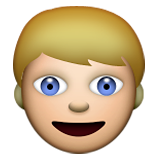
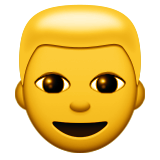
Ignite

diff --git a/2016_06_IgniteSydney/slides.md b/2016_06_IgniteSydney/slides.md
@@ -1,6 +1,6 @@
 ## &nbsp;
 
- <div style='width: 50%; margin: 0 auto;'><p align='center'><img height='400px' src='pictures/t/cry.svg'></p></div> <!-- .slide: class="center" -->
+ <div style='width: 50%; margin: 0 auto;'><p align='center'><img height='400px' src='pictures/g/crying.svg'></p></div> <!-- .slide: class="center" -->
 ---
  <div style='width: 100%; margin: 0 auto;'><p align='center'><img height='200px' src='pictures/g/T.svg'><img height='200px' src='pictures/g/L.svg'><img height='200px' src='pictures/g/D.svg'><img height='200px' src='pictures/g/R.svg'></p></div> <!-- .slide: class="center" -->
 Note: Because computers
@@ -40,8 +40,8 @@ Note: A small face-only update in 2012
 
 most platforms, if they support emoji at all, will support up to here
 ---
- <div style='width: 100%; margin: 0 auto;'><p align='center'><img height='160px' src='pictures/e/7.svg'><img height='160px' src='pictures/space.svg'><img height='160px' src='pictures/e/vulcan_1.svg'><img height='160px' src='pictures/e/sleuth.svg'><img height='160px' src='pictures/e/chipmunk.svg'></p></div> <!-- .slide: class="center" -->
- <div style='width: 100%; margin: 0 auto;'><p align='center'><img height='160px' src='pictures/e/8.svg'><img height='160px' src='pictures/space.svg'><img height='160px' src='pictures/e/horns.svg'><img height='160px' src='pictures/e/upsidedown.svg'><img height='160px' src='pictures/e/taco.svg'></p></div> <!-- .slide: class="center" -->
+ <div style='width: 100%; margin: 0 auto;'><p align='center'><img height='160px' src='pictures/e/7.svg'><img height='160px' src='pictures/space.svg'><img height='160px' src='pictures/t/vulcan.svg'><img height='160px' src='pictures/t/sleuth.svg'><img height='160px' src='pictures/t/chipmunk.svg'></p></div> <!-- .slide: class="center" -->
+ <div style='width: 100%; margin: 0 auto;'><p align='center'><img height='160px' src='pictures/e/8.svg'><img height='160px' src='pictures/space.svg'><img height='160px' src='pictures/t/horns.svg'><img height='160px' src='pictures/t/upsidedown.svg'><img height='160px' src='pictures/t/taco.svg'></p></div> <!-- .slide: class="center" -->
 
 Note: Unicode 8 2015
 Taco is now official
@@ -95,17 +95,22 @@ here's clapping from google vs microsoft
 
 the thumbs!
 ---
- <div style='width: 100%; margin: 0 auto;'><p align='center'><img height='200px' src='pictures/g/blonde.svg'><img height='200px' src='pictures/t/blonde.svg'><img height='200px' src='pictures/e/blonde.svg'><img height='200px' src='pictures/m/blonde.svg'></p></div> <!-- .slide: class="center" -->
+ <div style='width: 100%; margin: 0 auto;'><p align='center'><img height='160px' src='pictures/a/blonde.png'><img height='160px' src='pictures/g/blonde.svg'><img height='160px' src='pictures/t/blonde.svg'><img height='160px' src='pictures/e/blonde.svg'><img height='160px' src='pictures/m/blonde.svg'></p></div> <!-- .slide: class="center" -->
 ---
  <div style='width: 100%; margin: 0 auto;'><p align='center'><img height='266px' src='pictures/t/questionmark.svg'><img height='266px' src='pictures/g/questionmark.svg'><img height='266px' src='pictures/f/fb_quest2.png'></p></div> <!-- .slide: class="center" -->
 ---
  <div style='width: 100%; margin: 0 auto;'><p align='center'><img height='200px' src='pictures/a/grin.png'><img height='200px' src='pictures/a/grimace.png'><img height='200px' src='pictures/a/tearsjoy.png'><img height='200px' src='pictures/a/cry.png'></p></div> <!-- .slide: class="center" -->
 ---
- <div style='width: 50%; margin: 0 auto;'><p align='center'><img height='400px' src='pictures/t/sparkles.svg'></p></div> <!-- .slide: class="center" -->
----
-<div style='width: 100%; margin: 0 auto;'><p align='center'><img style="padding: 20px" height='266px' src='pictures/g/flush_44.png'><img style="padding: 20px" height='266px' src='pictures/g/flush_6.png'><img style="padding: 20px" height='266px' src='pictures/g/flush_n.png'></p></div> <!-- .slide: class="center" -->
----
  <div style='width: 100%; margin: 0 auto;'><p align='center'><img height='160px' src='pictures/e/9.svg'><img height='160px' src='pictures/space.svg'><img height='160px' src='pictures/ap/selfie.png'><img height='160px' src='pictures/ap/duck.png'><img height='160px' src='pictures/ap/spoon.png'></p></div> <!-- .slide: class="center" -->
  <div style='width: 100%; margin: 0 auto;'><p align='center'><img height='160px' src='pictures/e/10.svg'><img height='160px' src='pictures/space.svg'><img height='160px' src='pictures/o/eyebrow.png'><img height='160px' src='pictures/ap/takeaway.png'><img height='160px' src='pictures/o/fortune.png'></p></div> <!-- .slide: class="center" -->
 ---
- <div style='width: 100%; margin: 0 auto;'><p align='center'><img height='266px' src='pictures/space.svg'><img height='266px' src='pictures/ap/takeaway.png'><img height='266px' src='pictures/space.svg'></p></div> <!-- .slide: class="center" -->
+ <div style='width: 100%; margin: 0 auto;'><p align='center'><img height='160px' src='pictures/f/f1_smiling.png'><img height='160px' src='pictures/f/f1_crying.png'><img height='160px' src='pictures/f/f1_toung.png'><img height='160px' src='pictures/f/f1_throw.png'><img height='160px' src='pictures/f/f1_shock.png'></p></div> <!-- .slide: class="center" -->
+ <div style='width: 100%; margin: 0 auto;'><p align='center'><img height='160px' src='pictures/f/f2_smiling.png'><img height='160px' src='pictures/f/f2_crying.png'><img height='160px' src='pictures/f/f2_toung.png'><img height='160px' src='pictures/f/f2_throw.png'><img height='160px' src='pictures/f/f2_shock.png'></p></div> <!-- .slide: class="center" -->
+Note: redoing of facebook emoji
+
+still doesn't tackle unicode 7+, just a re-do of the existing glyphs
+
+---
+<div style='width: 100%; margin: 0 auto;'><p align='center'><img style="padding: 20px" height='266px' src='pictures/g/blushing.svg'><img style="padding: 20px" height='266px' src='pictures/g/flush_6.png'><img style="padding: 20px" height='266px' src='pictures/g/blush_n.png'></p></div> <!-- .slide: class="center" -->
+---
+ <img src="pictures/ap/takeaway.png" />
